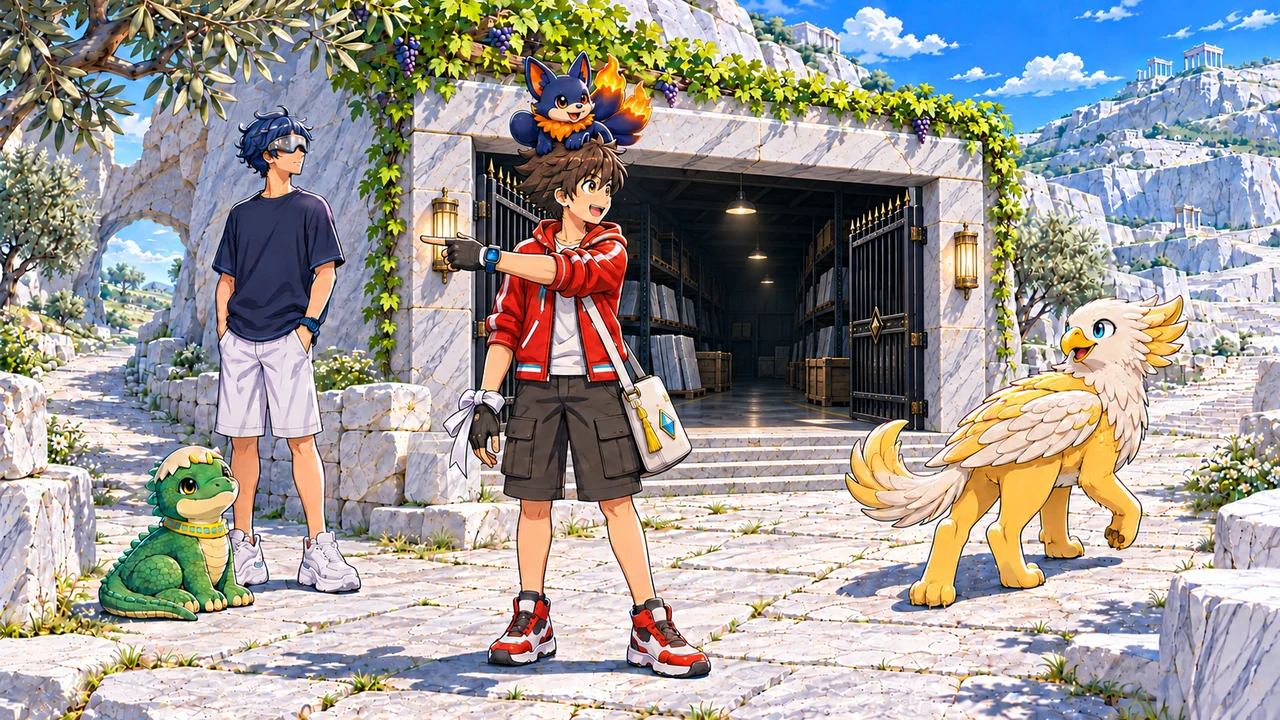
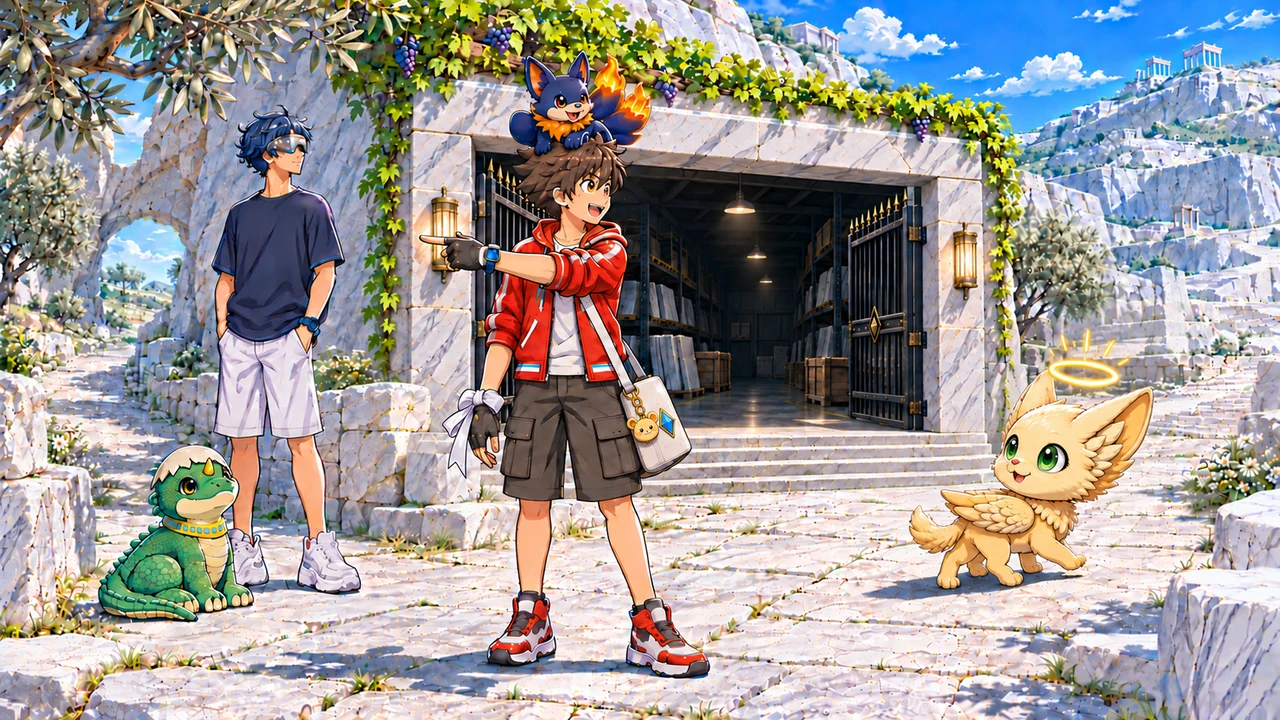
場面絵: コグリフで描き直した16〜17話8枚と19-05〜08・20-01〜03を組みこみ(計142枚)
- 採用版は進み具合.mdの表に合わせた(05-04はv3、13-06はv3)
- 19-09はまだグリフォなので描き直しが届くまで外す

Claude-Session: https://claude.ai/code/session_01GpeKDhxNssKAGTgsZyP1St

diff --git a/proto/world_v2/proto/greece_town.html b/proto/world_v2/proto/greece_town.html
@@ -5319,7 +5319,7 @@ const GAME_CUT_STALE=[];
       // 2026-11-20 オーナー「会話のときの画像、場面場面で適切な画像に」: 2話は Codex の本編カット(勝負の映像/7_第2話/作画_Codex_20261110/03_本編カット)を台詞ごとに
       const EP2BG={"g02_01": [["口から水の柱", "anime_ep2c_S0_02e"], ["その向こうで、二本", "anime_ep2c_S0_03e"]], "g02_02": [["その前の日", "anime_ep2c_S1_01"], ["エリーが、パンと", "anime_ep2c_S1_02"], ["見張ってたんだよ", "anime_ep2c_S1_03"], ["フォルン、起き上がる", "anime_ep2c_S1_05e"], ["……ほんとに、焦がした", "anime_ep2c_S1_06e"], ["エリー！　お客さん", "anime_ep2a_S1_08"]], "g02_03": [["ロビー。古い", "anime_ep2a_S3_01"], ["エリーの長い髪", "anime_ep2c_S3_03"], ["うわっ！　なんだ", "anime_ep2c_S3_04"], ["ずっといたよ", "anime_ep2c_S3_05"], ["寝てる時は", "anime_ep2c_S3_07"], ["指先が、毛に", "anime_ep2c_S3_09e"], ["ヤマトの髪の毛", "anime_ep2c_S3_10e"], ["（カウンターから", "anime_ep2c_S3_11"], ["……ちょっとだけ", "anime_ep2c_S3_12"], ["画面に赤い枠", "anime_ep2c_S3_13"], ["（画面の黒い車", "anime_ep2a_S3_14"], ["じゃあ、おれがフォルン", "anime_ep2c_S3_16"], ["相棒は、テリオン", "anime_ep2a_S3_17"], ["それ出る", "anime_ep2a_S3_23"], ["その前に、おばあちゃん", "anime_ep2c_S3_25"], ["パン屋の羽の子", "anime_ep2a_S3_15"]], "g02_04": [["段々のオリーブ", "anime_ep2c_S4_01"], ["フォルン、池のふち", "anime_ep2c_S4_02"], ["池の向こう", "anime_ep2c_S4_04"], ["フォルンの耳が", "anime_ep2c_S4_05e"]], "g02_05": [["丘の向こうの、小さな", "anime_ep2c_S5_01"], ["おばあちゃーん", "anime_ep2c_S5_02"], ["あらまあ", "anime_ep2c_S5_03"], ["おばあさんの目が", "anime_ep2c_S5_04"], ["狐にかまれたの", "anime_ep2c_S5_05"], ["棚の写真", "anime_ep2c_S5_07"], ["若いころさ", "anime_ep2c_S5_20"], ["その前に、化石から", "anime_ep2c_S5_06"], ["だから、わたしが", "anime_ep2c_S5_10"], ["じゃあ、きのうのやつら", "anime_ep2c_S5_15"], ["おばあさん、エリーの手を", "anime_ep2c_S5_10"], ["ヤマト、くしゃくしゃ", "anime_ep2c_S5_08e"], ["……エリー。一緒に", "anime_ep2c_S5_09"], ["うん！　行ってくる", "anime_ep2c_S5_10"], ["ありがと", "anime_ep2c_S5_11"], ["（窓にはりついて）", "anime_ep2c_S5_14"], ["あしたの夜、森の道", "anime_ep2c_S5_15"], ["……古い形の時計", "anime_ep2c_S5_18"]], "g02_06": [["丘の上。若い男", "anime_ep2c_S6_01"], ["男の手首の画面", "anime_ep2c_S6_02"], ["画面のすみに、少年", "anime_ep2c_S6_04"], ["運ぶのは", "anime_ep2c_S6_03"], ["急ぎなら", "anime_ep2c_S6_05"], ["アレク、望遠鏡", "anime_ep2c_S6_06"]], "g02_08": [["エリーの手首の画面が", "anime_ep2c_S8_01"], ["ヤマト、土手の下", "anime_ep2c_S8_02"], ["今度は、開く", "anime_ep2c_S8_03"], ["ヤマト、アイコンを", "anime_ep2c_S8_04e"], ["手首の画面から光", "anime_ep2c_S8_05e"], ["この真下", "anime_ep2c_S8_06"], ["……ちょっと、中を", "anime_ep2c_S8_09"]], "g02_09": [["競技場の、真下", "anime_ep2c_S9_01"], ["つきあたりに", "anime_ep2c_S9_02"], ["……これ、古い", "anime_ep2c_S9_03"], ["エリー、文字を", "anime_ep2c_S9_05"], ["……足の下の", "anime_ep2c_S9_06"], ["ヤマト、扉に手", "anime_ep2c_S9_08"], ["通路のずっとうしろ", "anime_ep2c_S9_09"], ["フォルンが、ヤマトと扉", "anime_ep2c_S9_10"], ["フォルンが怒って", "anime_ep2c_S9_11"]], "g02_07": [["次の日。", "anime_ep2c_S7_01"]]};
       const EP3BG={"g03_01": [["同じ日の夕方", "anime_ep3c_0_1"], ["小川の中を", "anime_ep3c_0_2"], ["手首の画面が、ぶるっと", "anime_ep3c_0_4"], ["アレク。日が落ちたら", "anime_ep3c_0_6"], ["……男の子も", "anime_ep3c_0_5"], ["理由は、お前の", "anime_ep3c_0_6e"], ["そのワニ、こちらで", "anime_ep3c_0_7"], ["……運べ", "anime_ep3c_0_7e"], ["ワニの子が、男のひざ", "anime_ep3c_0_8"]], "g03_02": [["その夜。", "anime_ep3c_1_1"], ["……先、行ってる", "anime_ep3c_1_3"], ["裏口の戸が", "anime_ep3c_1_4"], ["……エリー、脇に", "anime_ep3c_1_5"], ["アナさんに言わなくて", "anime_ep3c_1_7"], ["お姉ちゃんには、あした", "anime_ep3c_1_8"]], "g03_03": [["ぶどう畑を抜けた", "anime_ep3c_2_1"], ["光る板のまわり", "anime_ep3c_2_3"], ["エリー、スプレー", "anime_ep3c_2_3e"], ["フォルンだけは", "anime_ep3c_2_4"], ["ヤマト、顔を上げて", "anime_ep3c_2_8"], ["……また、お前かよ", "anime_ep3c_2_5"], ["夕方から、ずっと", "anime_ep3c_2_7"], ["……望遠鏡で", "anime_ep3c_2_6"], ["星って、どの星", "anime_ep3c_2_9"], ["なんだよ、それ。教えて", "anime_ep3c_2_10"]], "g03_04": [["その狐、こっちに", "anime_ep3c_3_1"], ["で、昼の「用事」", "anime_ep3c_3_6"], ["まだ運ぶなって", "anime_ep3c_3_2"], ["……やっぱり、昼の電話", "anime_ep3c_3_4"], ["（画面を消して）", "anime_ep3c_3_3"], ["エリーまで連れて", "anime_ep3c_3_12"], ["うるさいな", "anime_ep3c_3_7"], ["その子も、そのお仕事", "anime_ep3c_3_10"], ["こいつは関係ない", "anime_ep3c_3_9"], ["……じゃあ、関係ある", "anime_ep3c_3_11"], ["ねえ、その子、なんか変", "anime_ep3c_3_8"], ["名前は、おれに勝てたら", "anime_ep3c_3_11e"]], "g03_05": [["右を、小川が", "anime_ep3c_4_2e"], ["男、ワニの子を", "anime_ep3c_4_2"], ["火花が、石を伝って", "anime_ep3c_4_4e"], ["ピリポン、びっくり", "anime_ep3c_4_5"], ["ピリポン。こわかったら", "anime_ep3c_4_6"], ["ピリポン、エリーの腕", "anime_ep3c_4_6e"], ["二体で来い", "anime_ep3c_4_8"], ["ピリポンは、かくれて", "anime_ep3c_4_7"], ["じゃあ、それでいい", "anime_ep3c_4_9"], ["フォルン、根もとだ", "anime_ep3c_4_10"], ["……始めるか", "anime_ep3c_4_10e"]], "g03_07": [["ヤマト、両手のこぶし", "anime_ep3c_6_1"], ["ピリポン、すごいよ", "anime_ep3c_6_2"], ["アレク、ひっくり返った", "anime_ep3c_6_3"], ["耳のうしろのうろこ", "anime_ep3c_6_4"], ["その黒いの、なに", "anime_ep3c_6_5"], ["ヤマト、小川へ走る", "anime_ep3c_6_6"], ["お前、何してんだよ", "anime_ep3c_6_6e"], ["かわいてんじゃん", "anime_ep3c_6_7"], ["三回目の水が", "anime_ep3c_6_9"], ["……勝ったぞ。約束", "anime_ep3c_6_10"], ["仕事をやめたわけじゃ", "anime_ep3c_6_10e"], ["アレク、ぐったり", "anime_ep3c_6_11"], ["あるよ！　ぶどう畑", "anime_ep3c_6_11e"]], "g03_08": [["夜ふけ。坂の上", "anime_ep3c_7_1"], ["白い都まで行くつもり", "anime_ep3c_7_5"], ["道なら、おれが", "anime_ep3c_7_7"], ["……案内も、有料", "anime_ep3c_7_10"], ["こいつは、おれと大会", "anime_ep3c_7_6"], ["（ワニの子に）約束", "anime_ep3c_7_8"], ["こいつの名前は", "anime_ep3c_7_9"], ["……道、知らねえしな", "anime_ep3c_7_7"], ["（一段低い声で）……実は僕", "anime_ep3c_7_14"], ["エリーの肩で寝ていた", "anime_ep3c_7_15"], ["アレク、自分の手首", "anime_ep3c_7_17e"]], "g03_09": [["ヤマトの部屋", "anime_ep3c_8_2"], ["フォルン、音を立てず", "anime_ep3c_8_3"], ["リュックの上に乗る", "anime_ep3c_8_4e"], ["ヤマト、ベッドから", "anime_ep3c_8_6"], ["ぺしっ", "anime_ep3c_8_6e"], ["（小声で）……ちぇっ", "anime_ep3c_8_8"]], "g03_10": [["ぶどう畑のはしの道具小屋", "anime_ep3c_9_1"], ["アレクの手首の画面", "anime_ep3c_9_2"], ["アレク、ホテルの一階", "anime_ep3c_9_3"], ["森には、だれも", "anime_ep3c_9_4"], ["アレク、ポケットから", "anime_ep3c_9_5"], ["水おけの中で", "anime_ep3c_9_6"]]};   // 3話は PixAI の原画(勝負の映像/9_第3話/作画_PixAI・原画台帳.csv の採用版)
-      Object.assign(EP2BG,EP3BG); /*EP4BG_START*/ Object.assign(EP2BG,{"g04_01": [["坂のとちゅうに、黒塗り", "anime_ep04g_01"]], "g04_02": [["坂の上のホテル。四日目", "anime_ep04g_02"]], "g04_03": [["でさ、相手、川からばしゃー", "anime_ep04g_03"], ["残ったのは、短い前髪と", "anime_ep04g_04"]], "g04_04": [["門の外に、マルコ。", "anime_ep04g_05"]], "g04_09": [["アレク、用水路の湯気を見た", "anime_ep04g_06"]], "g04_10": [["アレクがうしろに来る。", "anime_ep04g_07"], ["ロビーの奥から、エリーが", "anime_ep04g_08"]], "g04_11": [["窓のない暗い部屋。", "anime_ep04g_09"]], "g05_01": [["オリーヴァ村を出た三人は", "anime_ep05g_01"]], "g05_02": [["オリーヴァ村の東。オリーブ", "anime_ep05g_02"]], "g05_03": [["この丘のいちばん上に、", "anime_ep05g_03"], ["……ヴィクターのチップだな。", "anime_ep05g_04"]], "g05_08": [["昼。千年のオリーブの下。", "anime_ep05g_05"], ["ヤニスの手首の画面が、短く", "anime_ep05g_06"], ["アレク、腕の中のクロッコの", "anime_ep05g_07"]], "g05_09": [["夕方。三人は、畑の向こうの", "anime_ep05g_08"]], "g06_01": [["五日目の昼。アルカディアの", "anime_ep06g_01"]], "g06_03": [["虎の子を追って、煙の中から", "anime_ep06g_02"]], "g06_05": [["……お前も、回すのか。", "anime_ep06g_03"]], "g06_06": [["森の裏がわの、舗装された", "anime_ep06g_04"]], "g06_07": [["ラドン川。この秋は、夜に", "anime_ep06g_05"]], "g06_08": [["白い小さな観光船。だれも", "anime_ep06g_06"]], "g06_09": [["歌が聞こえてくる。", "anime_ep06g_07"]], "g06_10": [["最後の船着き場。", "anime_ep06g_08"], ["……こんな夜ふけに、何の用？", "anime_ep06g_09"]], "g07_01": [["森の外れの発掘場。三人は", "anime_ep07g_01"]], "g07_02": [["シートの下は、赤土の大きな", "anime_ep07g_02"]], "g07_03": [["子どもたちが、日なたのフォルン", "anime_ep07g_03"]], "g07_04": [["ヤマト、子どもたちのあいだを", "anime_ep07g_04"]], "g07_06": [["……型は、無事。あの子、強", "anime_ep07g_05"]], "g07_07": [["光る板の下のテーブル。", "anime_ep07g_06"]], "g07_08": [["夜ふけ。みんな寝ている。", "anime_ep07g_07"], ["……まだ見てんのか。", "anime_ep07g_08"], ["ヤマト、ばんそうこうの指で、", "anime_ep07g_09"]], "g08_01": [["森の道が開いた朝。三人は、", "anime_ep08g_01"]], "g08_02": [["坂の下の小さな村。", "anime_ep08g_02"], ["エリー、黄色のニット。", "anime_ep08g_03"]], "g08_03": [["エリー、ゆっくりまばたきする。", "anime_ep08g_04"]], "g08_04": [["えっとね……「大きなけもの", "anime_ep08g_05"]], "g08_06": [["森のふち。ベルクマが、木の", "anime_ep08g_06"]], "g08_07": [["夜。小屋の前の石段。", "anime_ep08g_07"], ["フォルン、ヤマトのひざに前足を", "anime_ep08g_08"]], "g08_08": [["明かりを落とした広い部屋。", "anime_ep08g_09"]], "g09_01": [["ぶどう小屋を出て、二日目の朝。", "anime_ep09g_01"]], "g09_02": [["そこへ、小さな舟がすうっと", "anime_ep09g_02"]], "g09_03": [["その夕方。三人は、マリナの", "anime_ep09g_03"]], "g09_04": [["月のない海。", "anime_ep09g_04"], ["右舷のすぐ横に、黒い船体が、", "anime_ep09g_05"]], "g09_06": [["三体の光が引き、もとの姿へ。", "anime_ep09g_06"]], "g09_07": [["夜明け。小雨はやんでいる。", "anime_ep09g_07"], ["首に灰色のタオル。", "anime_ep09g_08"]], "g10_01": [["夜の海をこえて、マリナの船は", "anime_ep10g_01"]], "g10_02": [["白い都。昔の石の町に、", "anime_ep10g_02"]], "g10_03": [["坂の上がひらける。", "anime_ep10g_03"]], "g10_04": [["満員の客席。", "anime_ep10g_04"], ["アレク、パーカーのポケットから", "anime_ep10g_05"]], "g10_05": [["ヤマトのうしろ、裏の門が開く。", "anime_ep10g_06"]], "g10_07": [["狐のお兄ちゃん、サインちょうだい！", "anime_ep10g_07"], ["融合！", "anime_ep10g_08"]], "g10_08": [["控え室の戸口に、チャコールの", "anime_ep10g_09"]], "g11_01": [["大会の二日目。三人は、アレクが", "anime_ep11g_01"], ["（早口で）……貴様、おれのジュース", "anime_ep11g_02"]], "g11_02": [["すれちがいざま、カマコロがハオの", "anime_ep11g_03"]], "g11_03": [["競技場のまん中。", "anime_ep11g_04"]], "g11_05": [["エルレオンの光がほどけて、", "anime_ep11g_05"], ["竹の森に来たら、案内します。", "anime_ep11g_06"]], "g11_06": [["通路の壁の大きな空中の画面。", "anime_ep11g_07"], ["通路の向こうから、レンが一人で", "anime_ep11g_08"]], "g12_01": [["決勝の前の夜。", "anime_ep12g_01"], ["部屋。明かりを落とした中。", "anime_ep12g_02"]], "g12_03": [["向こうの入口から、レンが一人で", "anime_ep12g_03"]], "g12_05": [["光が引いて、フォルンに。", "anime_ep12g_04"]], "g12_06": [["下ろしたままのヤマトの手のひらに、", "anime_ep12g_05"]], "g12_07": [["貴賓席から、チャコールのストライプ", "anime_ep12g_06"]], "g12_09": [["貴賓席のうしろの小部屋。", "anime_ep12g_07"]], "g12_10": [["その夜。白い都の屋台の町は、", "anime_ep12g_08"]], "g13_01": [["大会が終わった夜。港のそばの", "anime_ep13g_01"]], "g13_02": [["エリー、からのカップを返しに、", "anime_ep13g_02"]], "g13_03": [["屋台の机。机の上で丸くなって", "anime_ep13g_03"], ["細い道の奥。", "anime_ep13g_04"]], "g13_04": [["屋台の明かりが、背中の方に", "anime_ep13g_05"]], "g13_06": [["甲板のへりに、エリー。ゼノの手を", "anime_ep13g_06"]], "g13_07": [["安い宿の部屋。", "anime_ep13g_07"]], "g13_08": [["アレク、窓ぎわに立っている。", "anime_ep13g_08"]], "g13_09": [["同じ夜。白い都から遠く離れた、", "anime_ep13g_09"]], "g14_01": [["エリーのいない朝。二人は", "anime_ep14g_01"]], "g14_03": [["丘の上に、石の獅子が二頭", "anime_ep14g_02"]], "g14_04": [["屋敷の奥のテラス。", "anime_ep14g_03"]], "g14_05": [["階段の上に、カシアが立って", "anime_ep14g_04"], ["ヴィクター、エリーと同じ段", "anime_ep14g_05"], ["ヴィクター、指を一度だけ動かす", "anime_ep14g_10"], ["……エリー。ほんとに、いい", "anime_ep14g_06"]], "g14_06": [["門の外。うしろで、ゼノが", "anime_ep14g_07"]], "g14_07": [["古い木の下に、銀色のうすい", "anime_ep14g_08"]], "g14_08": [["同じ夜。屋敷の、地下。", "anime_ep14g_09"]], "g15_01": [["オリーブの木の横。", "anime_ep15g_01"], ["町を南北にまっすぐ走る運河", "anime_ep15g_02"]], "g15_02": [["ヤマト、車から降りて、机の", "anime_ep15g_03"]], "g15_04": [["橋の手前の、運河ぞいの石", "anime_ep15g_04"]], "g15_06": [["その狐も、言うことを聞く", "anime_ep15g_05"]], "g15_09": [["その夜。獅子門の丘の屋敷。", "anime_ep15g_06"], ["屋敷の地下。", "anime_ep15g_07"]], "g15_10": [["山あいの暗い道。", "anime_ep15g_08"], ["エリー、手首の白い画面に、", "anime_ep15g_09"]], "g16_01": [["獅子門の丘の屋敷。", "anime_ep16g_01"]], "g16_02": [["大理石の谷。山がまるごと", "anime_ep16g_02"]], "g16_03": [["粉が、ヤマトの髪に積もる。", "anime_ep16g_03"]], "g16_05": [["ヤマト、グリフォの羽のつけ根", "anime_ep16g_04"], ["グリフォ、ヤマトのひざの横に", "anime_ep16g_05"]], "g16_06": [["保管庫の前。ヤマト、谷の", "anime_ep16g_06"]], "g16_07": [["その夜。山の中腹の、岩かげ", "anime_ep16g_07"]], "g16_08": [["獅子門の丘の屋敷。", "anime_ep16g_08"]], "g17_01": [["山の向こう。古い迷宮の", "anime_ep17g_01"], ["扉に手を当てろ。それだけで", "anime_ep17g_02"], ["……読むだけだって、言った", "anime_ep17g_03"]], "g17_02": [["昼前。がけの下に、古い石の", "anime_ep17g_04"]], "g17_04": [["右はひびだらけで傾き、左は", "anime_ep17g_05"]], "g17_10": [["長い通路をぬけると、日は", "anime_ep17g_07"], ["坂の下の道に、白いロボタクシ", "anime_ep17g_08"], ["ハンドルを握るヴィクターの", "anime_ep17g_09"]], "g18_01": [["その夜。二人は、ロボタクシー", "anime_ep18g_01"]], "g18_02": [["競技場の、真下。", "anime_ep18g_02"]], "g18_03": [["あくる朝。オリーヴァ村へ", "anime_ep18g_03"]], "g18_04": [["エリー、扉のまん中の、手の", "anime_ep18g_04"], ["エリー。ご飯、作って待って", "anime_ep18g_05"], ["……助けて。", "anime_ep18g_06"]], "g18_10": [["これ。あの夜、階段に落ちて", "anime_ep18g_07"]], "g18_11": [["その日の夕方。村のいちばん", "anime_ep18g_08"], ["大きなまぶたが、ゆっくり開く", "anime_ep18g_09"]], "g19_01": [["村はチップの子だらけ。", "anime_ep19g_01"]], "g19_03": [["三人、窓にかけ寄る。", "anime_ep19g_02"]], "g19_04": [["くぼみの前に、巨体が", "anime_ep19g_03"]], "g19_08": [["ヴィクター、崩れた壁の上で", "anime_ep19g_04"]]}); if(GR_BT[17]) GR_BT[17].postBg='anime_ep17g_06'; /*EP4BG_END*/ /* 2026-11-21 オーナー「提案通り」: 17話S10 ミノタスがヤマトの足もとに頭を下ろす(台本にあるが、決着のトが無く抜き出しで落ちていた) */ if(typeof GR_BT!=="undefined"&&GR_BT[17]&&!(GR_BT[17].post||[]).length) GR_BT[17].post=[{w:null,t:"グレンダイルの光がほどけて、フォルンとクロッコに戻る。二匹とも、その場にへたりこむ。"},{w:null,t:"へたりこんだフォルンの耳が、横になったミノタスの方へ向く。"},{w:null,t:"ミノタス、目をあけたまま、ゆっくり首を上げる。焦げた角のまま、床を這ってくる。"},{w:null,t:"ヤマトの前で止まる。大きな頭を、ヤマトの足もとに下ろす。鼻の金の輪が、床に当たって、ちりん。"},{w:null,t:"ヤマト、少し迷って、黒い角に手をのせる。手首の画面が、ぽうっと一度だけ光る。"},{w:null,t:"ミノタス、ヤマトの足もとで、そのまま目を閉じる。長い寝息。"},{w:null,t:"ヤマトとアレク、同じ方を見ている。エリーの連れていかれた、奥の通路。"}];
+      Object.assign(EP2BG,EP3BG); /*EP4BG_START*/ Object.assign(EP2BG,{"g04_01": [["坂のとちゅうに、黒塗り", "anime_ep04g_01"]], "g04_02": [["坂の上のホテル。四日目", "anime_ep04g_02"]], "g04_03": [["でさ、相手、川からばしゃー", "anime_ep04g_03"], ["残ったのは、短い前髪と", "anime_ep04g_04"]], "g04_04": [["門の外に、マルコ。", "anime_ep04g_05"]], "g04_09": [["アレク、用水路の湯気を見た", "anime_ep04g_06"]], "g04_10": [["アレクがうしろに来る。", "anime_ep04g_07"], ["ロビーの奥から、エリーが", "anime_ep04g_08"]], "g04_11": [["窓のない暗い部屋。", "anime_ep04g_09"]], "g05_01": [["オリーヴァ村を出た三人は", "anime_ep05g_01"]], "g05_02": [["オリーヴァ村の東。オリーブ", "anime_ep05g_02"]], "g05_03": [["この丘のいちばん上に、", "anime_ep05g_03"], ["……ヴィクターのチップだな。", "anime_ep05g_04"]], "g05_08": [["昼。千年のオリーブの下。", "anime_ep05g_05"], ["ヤニスの手首の画面が、短く", "anime_ep05g_06"], ["アレク、腕の中のクロッコの", "anime_ep05g_07"]], "g05_09": [["夕方。三人は、畑の向こうの", "anime_ep05g_08"]], "g06_01": [["五日目の昼。アルカディアの", "anime_ep06g_01"]], "g06_03": [["虎の子を追って、煙の中から", "anime_ep06g_02"]], "g06_05": [["……お前も、回すのか。", "anime_ep06g_03"]], "g06_06": [["森の裏がわの、舗装された", "anime_ep06g_04"]], "g06_07": [["ラドン川。この秋は、夜に", "anime_ep06g_05"]], "g06_08": [["白い小さな観光船。だれも", "anime_ep06g_06"]], "g06_09": [["歌が聞こえてくる。", "anime_ep06g_07"]], "g06_10": [["最後の船着き場。", "anime_ep06g_08"], ["……こんな夜ふけに、何の用？", "anime_ep06g_09"]], "g07_01": [["森の外れの発掘場。三人は", "anime_ep07g_01"]], "g07_02": [["シートの下は、赤土の大きな", "anime_ep07g_02"]], "g07_03": [["子どもたちが、日なたのフォルン", "anime_ep07g_03"]], "g07_04": [["ヤマト、子どもたちのあいだを", "anime_ep07g_04"]], "g07_06": [["……型は、無事。あの子、強", "anime_ep07g_05"]], "g07_07": [["光る板の下のテーブル。", "anime_ep07g_06"]], "g07_08": [["夜ふけ。みんな寝ている。", "anime_ep07g_07"], ["……まだ見てんのか。", "anime_ep07g_08"], ["ヤマト、ばんそうこうの指で、", "anime_ep07g_09"]], "g08_01": [["森の道が開いた朝。三人は、", "anime_ep08g_01"]], "g08_02": [["坂の下の小さな村。", "anime_ep08g_02"], ["エリー、黄色のニット。", "anime_ep08g_03"]], "g08_03": [["エリー、ゆっくりまばたきする。", "anime_ep08g_04"]], "g08_04": [["えっとね……「大きなけもの", "anime_ep08g_05"]], "g08_06": [["森のふち。ベルクマが、木の", "anime_ep08g_06"]], "g08_07": [["夜。小屋の前の石段。", "anime_ep08g_07"], ["フォルン、ヤマトのひざに前足を", "anime_ep08g_08"]], "g08_08": [["明かりを落とした広い部屋。", "anime_ep08g_09"]], "g09_01": [["ぶどう小屋を出て、二日目の朝。", "anime_ep09g_01"]], "g09_02": [["そこへ、小さな舟がすうっと", "anime_ep09g_02"]], "g09_03": [["その夕方。三人は、マリナの", "anime_ep09g_03"]], "g09_04": [["月のない海。", "anime_ep09g_04"], ["右舷のすぐ横に、黒い船体が、", "anime_ep09g_05"]], "g09_06": [["三体の光が引き、もとの姿へ。", "anime_ep09g_06"]], "g09_07": [["夜明け。小雨はやんでいる。", "anime_ep09g_07"], ["首に灰色のタオル。", "anime_ep09g_08"]], "g10_01": [["夜の海をこえて、マリナの船は", "anime_ep10g_01"]], "g10_02": [["白い都。昔の石の町に、", "anime_ep10g_02"]], "g10_03": [["坂の上がひらける。", "anime_ep10g_03"]], "g10_04": [["満員の客席。", "anime_ep10g_04"], ["アレク、パーカーのポケットから", "anime_ep10g_05"]], "g10_05": [["ヤマトのうしろ、裏の門が開く。", "anime_ep10g_06"]], "g10_07": [["狐のお兄ちゃん、サインちょうだい！", "anime_ep10g_07"], ["融合！", "anime_ep10g_08"]], "g10_08": [["控え室の戸口に、チャコールの", "anime_ep10g_09"]], "g11_01": [["大会の二日目。三人は、アレクが", "anime_ep11g_01"], ["（早口で）……貴様、おれのジュース", "anime_ep11g_02"]], "g11_02": [["すれちがいざま、カマコロがハオの", "anime_ep11g_03"]], "g11_03": [["競技場のまん中。", "anime_ep11g_04"]], "g11_05": [["エルレオンの光がほどけて、", "anime_ep11g_05"], ["竹の森に来たら、案内します。", "anime_ep11g_06"]], "g11_06": [["通路の壁の大きな空中の画面。", "anime_ep11g_07"], ["通路の向こうから、レンが一人で", "anime_ep11g_08"]], "g12_01": [["決勝の前の夜。", "anime_ep12g_01"], ["部屋。明かりを落とした中。", "anime_ep12g_02"]], "g12_03": [["向こうの入口から、レンが一人で", "anime_ep12g_03"]], "g12_05": [["光が引いて、フォルンに。", "anime_ep12g_04"]], "g12_06": [["下ろしたままのヤマトの手のひらに、", "anime_ep12g_05"]], "g12_07": [["貴賓席から、チャコールのストライプ", "anime_ep12g_06"]], "g12_09": [["貴賓席のうしろの小部屋。", "anime_ep12g_07"]], "g12_10": [["その夜。白い都の屋台の町は、", "anime_ep12g_08"]], "g13_01": [["大会が終わった夜。港のそばの", "anime_ep13g_01"]], "g13_02": [["エリー、からのカップを返しに、", "anime_ep13g_02"]], "g13_03": [["屋台の机。机の上で丸くなって", "anime_ep13g_03"], ["細い道の奥。", "anime_ep13g_04"]], "g13_04": [["屋台の明かりが、背中の方に", "anime_ep13g_05"]], "g13_06": [["甲板のへりに、エリー。ゼノの手を", "anime_ep13g_06"]], "g13_07": [["安い宿の部屋。", "anime_ep13g_07"]], "g13_08": [["アレク、窓ぎわに立っている。", "anime_ep13g_08"]], "g13_09": [["同じ夜。白い都から遠く離れた、", "anime_ep13g_09"]], "g14_01": [["エリーのいない朝。二人は", "anime_ep14g_01"]], "g14_03": [["丘の上に、石の獅子が二頭", "anime_ep14g_02"]], "g14_04": [["屋敷の奥のテラス。", "anime_ep14g_03"]], "g14_05": [["階段の上に、カシアが立って", "anime_ep14g_04"], ["ヴィクター、エリーと同じ段", "anime_ep14g_05"], ["ヴィクター、指を一度だけ動かす", "anime_ep14g_10"], ["……エリー。ほんとに、いい", "anime_ep14g_06"]], "g14_06": [["門の外。うしろで、ゼノが", "anime_ep14g_07"]], "g14_07": [["古い木の下に、銀色のうすい", "anime_ep14g_08"]], "g14_08": [["同じ夜。屋敷の、地下。", "anime_ep14g_09"]], "g15_01": [["オリーブの木の横。", "anime_ep15g_01"], ["町を南北にまっすぐ走る運河", "anime_ep15g_02"]], "g15_02": [["ヤマト、車から降りて、机の", "anime_ep15g_03"]], "g15_04": [["橋の手前の、運河ぞいの石", "anime_ep15g_04"]], "g15_06": [["その狐も、言うことを聞く", "anime_ep15g_05"]], "g15_09": [["その夜。獅子門の丘の屋敷。", "anime_ep15g_06"], ["屋敷の地下。", "anime_ep15g_07"]], "g15_10": [["山あいの暗い道。", "anime_ep15g_08"], ["エリー、手首の白い画面に、", "anime_ep15g_09"]], "g16_01": [["獅子門の丘の屋敷。", "anime_ep16g_01"]], "g16_02": [["大理石の谷。山がまるごと", "anime_ep16g_02"]], "g16_03": [["粉が、ヤマトの髪に積もる。", "anime_ep16g_03"]], "g16_05": [["ヤマト、グリフォの羽のつけ根の帯を見る。", "anime_ep16g_04"], ["グリフォ、ヤマトのひざの横にカバンを置く。", "anime_ep16g_05"]], "g16_06": [["保管庫の前。ヤマト、谷の", "anime_ep16g_06"]], "g16_07": [["その夜。山の中腹の、岩かげ", "anime_ep16g_07"]], "g16_08": [["獅子門の丘の屋敷。", "anime_ep16g_08"]], "g17_01": [["山の向こう。古い迷宮の", "anime_ep17g_01"], ["扉に手を当てろ。それだけで", "anime_ep17g_02"], ["……読むだけだって、言った", "anime_ep17g_03"]], "g17_02": [["昼前。がけの下に、古い石の", "anime_ep17g_04"]], "g17_04": [["右はひびだらけで傾き、左は", "anime_ep17g_05"]], "g17_10": [["長い通路をぬけると、日は", "anime_ep17g_07"], ["坂の下の道に、白いロボタクシ", "anime_ep17g_08"], ["ハンドルを握るヴィクターの", "anime_ep17g_09"]], "g18_01": [["その夜。二人は、ロボタクシー", "anime_ep18g_01"]], "g18_02": [["競技場の、真下。", "anime_ep18g_02"]], "g18_03": [["あくる朝。オリーヴァ村へ", "anime_ep18g_03"]], "g18_04": [["エリー、扉のまん中の、手の", "anime_ep18g_04"], ["エリー。ご飯、作って待って", "anime_ep18g_05"], ["……助けて。", "anime_ep18g_06"]], "g18_10": [["これ。あの夜、階段に落ちて", "anime_ep18g_07"]], "g18_11": [["その日の夕方。村のいちばん", "anime_ep18g_08"], ["大きなまぶたが、ゆっくり開く", "anime_ep18g_09"]], "g19_01": [["村はチップの子だらけ。", "anime_ep19g_01"]], "g19_03": [["三人、窓にかけ寄る。", "anime_ep19g_02"]], "g19_04": [["くぼみの前に、巨体が", "anime_ep19g_03"]], "g19_08": [["ヴィクター、崩れた壁の上で", "anime_ep19g_04"], ["……わたしを、連れていかない", "anime_ep19g_05"], ["おい、スーツのおっさん。", "anime_ep19g_06"]], "g19_09": [["ホテルのロビー。", "anime_ep19g_07"], ["足もとに、左の前足を浮かせた", "anime_ep19g_08"]], "g19_10": [], "g20_01": [["オリーヴァ村。負けた次の", "anime_ep20g_01"]], "g20_02": [["戸が開く。おばあさん。", "anime_ep20g_02"], ["おばあさん、手首の画面に", "anime_ep20g_03"]]}); if(GR_BT[17]) GR_BT[17].postBg='anime_ep17g_06'; /*EP4BG_END*/ /* 2026-11-21 オーナー「提案通り」: 17話S10 ミノタスがヤマトの足もとに頭を下ろす(台本にあるが、決着のトが無く抜き出しで落ちていた) */ if(typeof GR_BT!=="undefined"&&GR_BT[17]&&!(GR_BT[17].post||[]).length) GR_BT[17].post=[{w:null,t:"グレンダイルの光がほどけて、フォルンとクロッコに戻る。二匹とも、その場にへたりこむ。"},{w:null,t:"へたりこんだフォルンの耳が、横になったミノタスの方へ向く。"},{w:null,t:"ミノタス、目をあけたまま、ゆっくり首を上げる。焦げた角のまま、床を這ってくる。"},{w:null,t:"ヤマトの前で止まる。大きな頭を、ヤマトの足もとに下ろす。鼻の金の輪が、床に当たって、ちりん。"},{w:null,t:"ヤマト、少し迷って、黒い角に手をのせる。手首の画面が、ぽうっと一度だけ光る。"},{w:null,t:"ミノタス、ヤマトの足もとで、そのまま目を閉じる。長い寝息。"},{w:null,t:"ヤマトとアレク、同じ方を見ている。エリーの連れていかれた、奥の通路。"}];
       window._bgMiss=[]; for(const k in EP2BG){ const L=EP2BG[k]; if(typeof GR_BG!=='undefined'&&L[0]) GR_BG[k]=L[0][1]; for(const [h,b] of L){ const x=(GR_SC[k]||[]).find(y=>y&&y.t&&y.t.startsWith(h)); if(x) x.bg=b; else window._bgMiss.push(k+':'+h); } } setBg('g01_05','……って、ちょっと','anime_ep1n_bandage');
       setBg('g01_12','そう、アナ','anime_ep1n_door'); setBg('g01_12','ヤマト、図鑑','anime_ep1n_room'); setBg('g01_12','手首の画面のすみ','anime_ep1n_watch'); setBg('g01_12','窓の外。','anime_ep1n_window'); setBg('g01_12','エリー、ちょっと見て','anime_ep1n_door'); }
     if(window.GR_REBUILD) window.GR_REBUILD();
